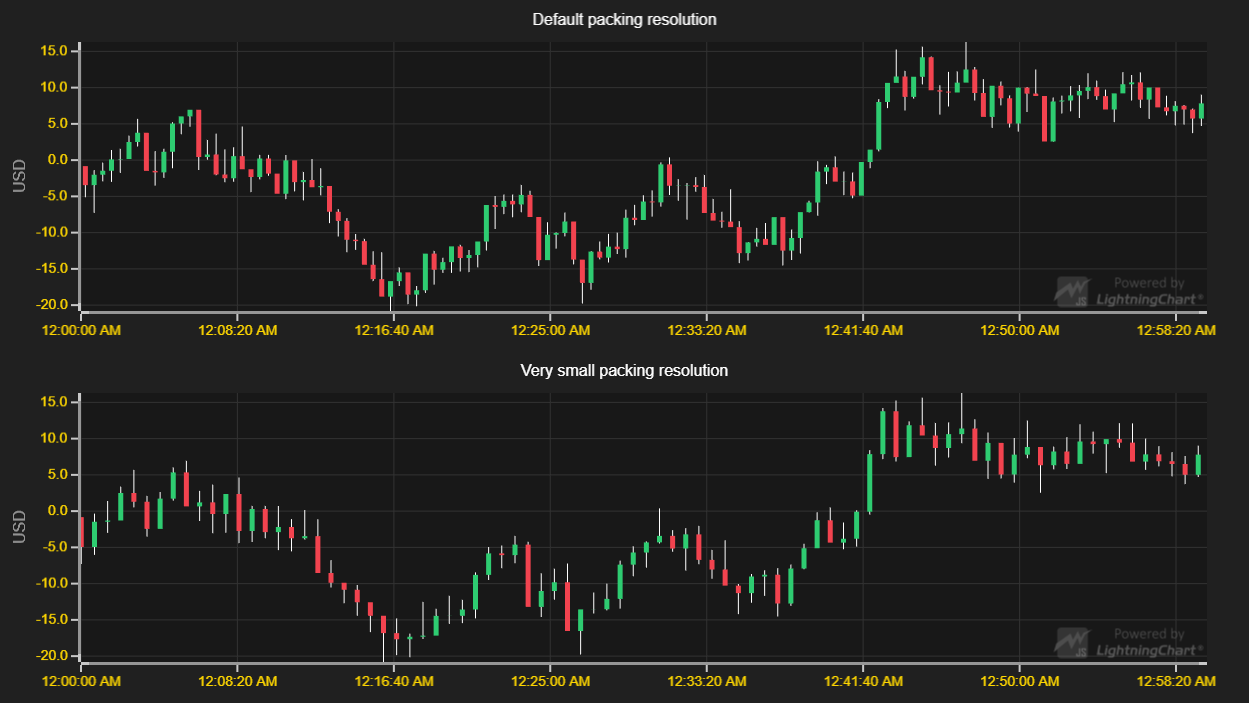
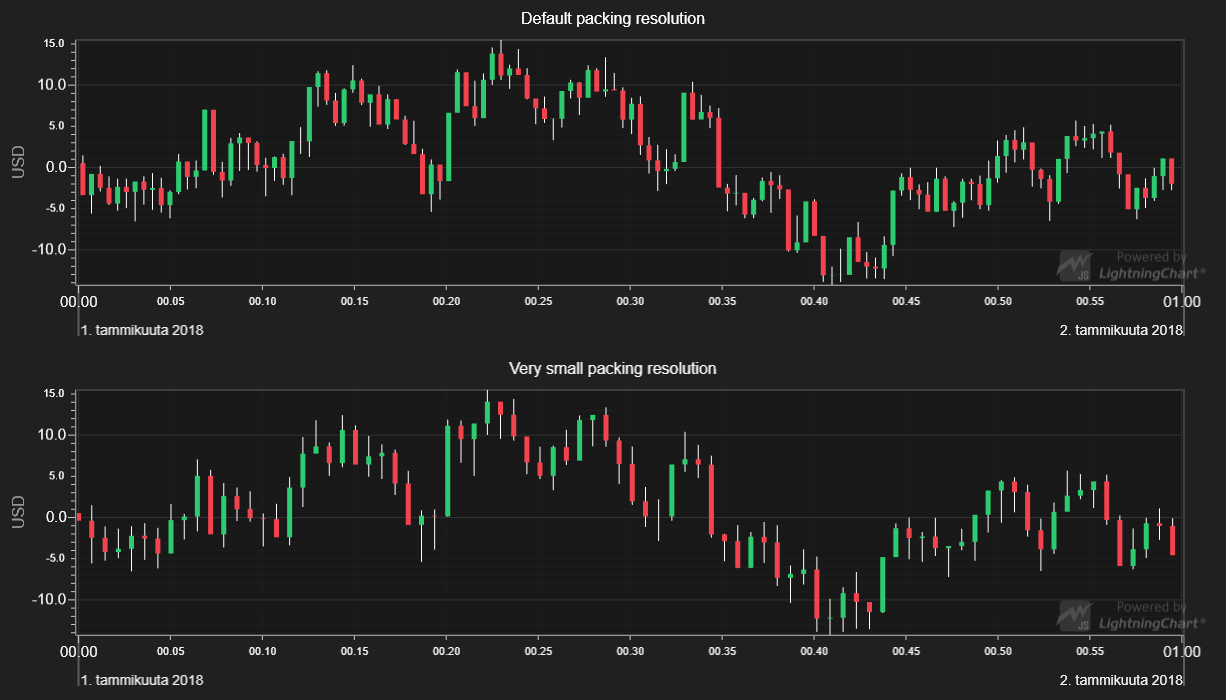
LCJS 2.0.0

diff --git a/src/index.js b/src/index.js
@@ -9,7 +9,8 @@ const {
     lightningChart,
     AxisTickStrategies,
     OHLCSeriesTypes,
-    emptyLine
+    emptyLine,
+    Themes
 } = lcjs
 
 // Import data-generator from 'xydata'-library.
@@ -38,41 +39,57 @@ const dataFrequency = 1 * 1000
 
 // Decide on an origin for DateTime axis.
 const dateOrigin = new Date(2018, 0, 1)
-const dateTimeTickStrategy = AxisTickStrategies.DateTime(dateOrigin)
-
 // Create charts and series for two different packing resolutions.
 const lc = lightningChart()
 const chartDefault = lc.ChartXY({
-    containerId: 'div1',
-    defaultAxisXTickStrategy: dateTimeTickStrategy
+    container: 'div1',
+    // theme: Themes.dark
 })
+// Use DateTime TickStrategy with custom origin date.
+chartDefault
+    .getDefaultAxisX()
+    .setTickStrategy(
+        AxisTickStrategies.DateTime,
+        (tickStrategy) => tickStrategy.setDateOrigin(dateOrigin)
+    )
+
+chartDefault
     .setTitle('Default packing resolution')
     .setAutoCursor(cursor => {
         cursor.disposeTickMarkerY()
         cursor.setGridStrokeYStyle(emptyLine)
     })
-    // Preventing ResultTable from getting cut at the edge
-    .setPadding({
-        right: 42
-    })
+// Preventing ResultTable from getting cut at the edge
+chartDefault.setPadding({
+    right: 42
+})
 
 // show title 'USD on Y axis
 chartDefault.getDefaultAxisY()
     .setTitle('USD')
 
 const chartLow = lc.ChartXY({
-    containerId: 'div2',
-    defaultAxisXTickStrategy: dateTimeTickStrategy
+    container: div2,
+    // theme: Themes.dark
 })
+// Use DateTime TickStrategy with custom origin date.
+chartLow
+    .getDefaultAxisX()
+    .setTickStrategy(
+        AxisTickStrategies.DateTime,
+        (tickStrategy) => tickStrategy.setDateOrigin(dateOrigin)
+    )
+
+chartLow
     .setTitle('Very small packing resolution')
     .setAutoCursor(cursor => {
         cursor.disposeTickMarkerY()
         cursor.setGridStrokeYStyle(emptyLine)
     })
-    // Preventing ResultTable from getting cut at the edge
-    .setPadding({
-        right: 42
-    })
+// Preventing ResultTable from getting cut at the edge
+chartLow.setPadding({
+    right: 42
+})
 
 // show title 'USD on Y axis
 chartLow.getDefaultAxisY()

diff --git a/README.md b/README.md
@@ -34,11 +34,11 @@ To ensure that the figures can be zoomed up to desired details, users can set an
 
 ## API Links
 
-* Axis tick strategies: [AxisTickStrategies]
-* XY cartesian chart: [ChartXY]
-* OHLC series types: [OHLCSeriesTypes]
-* series with automatic packing: [OHLCSeriesWithAutomaticPacking]
-* Progressive trace generator: [ProgressiveTraceGenerator]
+* [Axis tick strategies]
+* [XY cartesian chart]
+* [OHLC series types]
+* [series with automatic packing]
+* [Progressive trace generator]
 
 
 ## Support
@@ -62,9 +62,9 @@ Direct developer email support can be purchased through a [Support Plan][4] or b
 © Arction Ltd 2009-2020. All rights reserved.
 
 
-[AxisTickStrategies]: https://www.arction.com/lightningchart-js-api-documentation/v1.3.0/globals.html#axistickstrategies
-[ChartXY]: https://www.arction.com/lightningchart-js-api-documentation/v1.3.0/classes/chartxy.html
-[OHLCSeriesTypes]: https://www.arction.com/lightningchart-js-api-documentation/v1.3.0/globals.html#ohlcseriestypes
-[OHLCSeriesWithAutomaticPacking]: https://www.arction.com/lightningchart-js-api-documentation/v1.3.0/classes/ohlcserieswithautomaticpacking.html
-[ProgressiveTraceGenerator]: https://arction.github.io/xydata/classes/progressivetracegenerator.html
+[Axis tick strategies]: https://www.arction.com/lightningchart-js-api-documentation/v2.0.0/globals.html#axistickstrategies
+[XY cartesian chart]: https://www.arction.com/lightningchart-js-api-documentation/v2.0.0/classes/chartxy.html
+[OHLC series types]: https://www.arction.com/lightningchart-js-api-documentation/v2.0.0/globals.html#ohlcseriestypes
+[series with automatic packing]: https://www.arction.com/lightningchart-js-api-documentation/v2.0.0/classes/ohlcserieswithautomaticpacking.html
+[Progressive trace generator]: https://arction.github.io/xydata/classes/progressivetracegenerator.html
 
